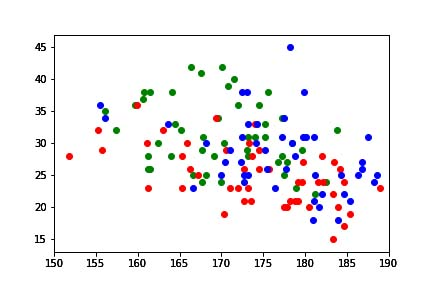
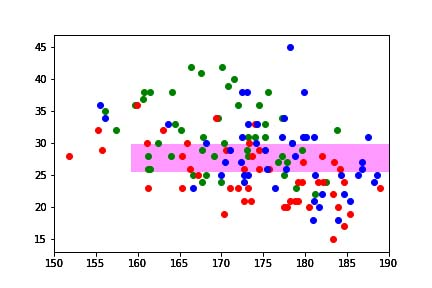
バレルゾーンを画像に追加

Changed region(s): [[0.3009, 0.5, 0.9028, 0.625]]

diff --git a/homerun/README.md b/homerun/README.md
@@ -18,4 +18,5 @@
 ペレス選手は、フライボールの傾向にある。
 
 ホームランになりやすいバレルゾーンは、
-打球速度が158km/h以上、打球角度が26～30°とされている。
+打球速度が158km/h以上、打球角度が26～30°とされている。  
+画像のマゼンタ色のその領域である。
